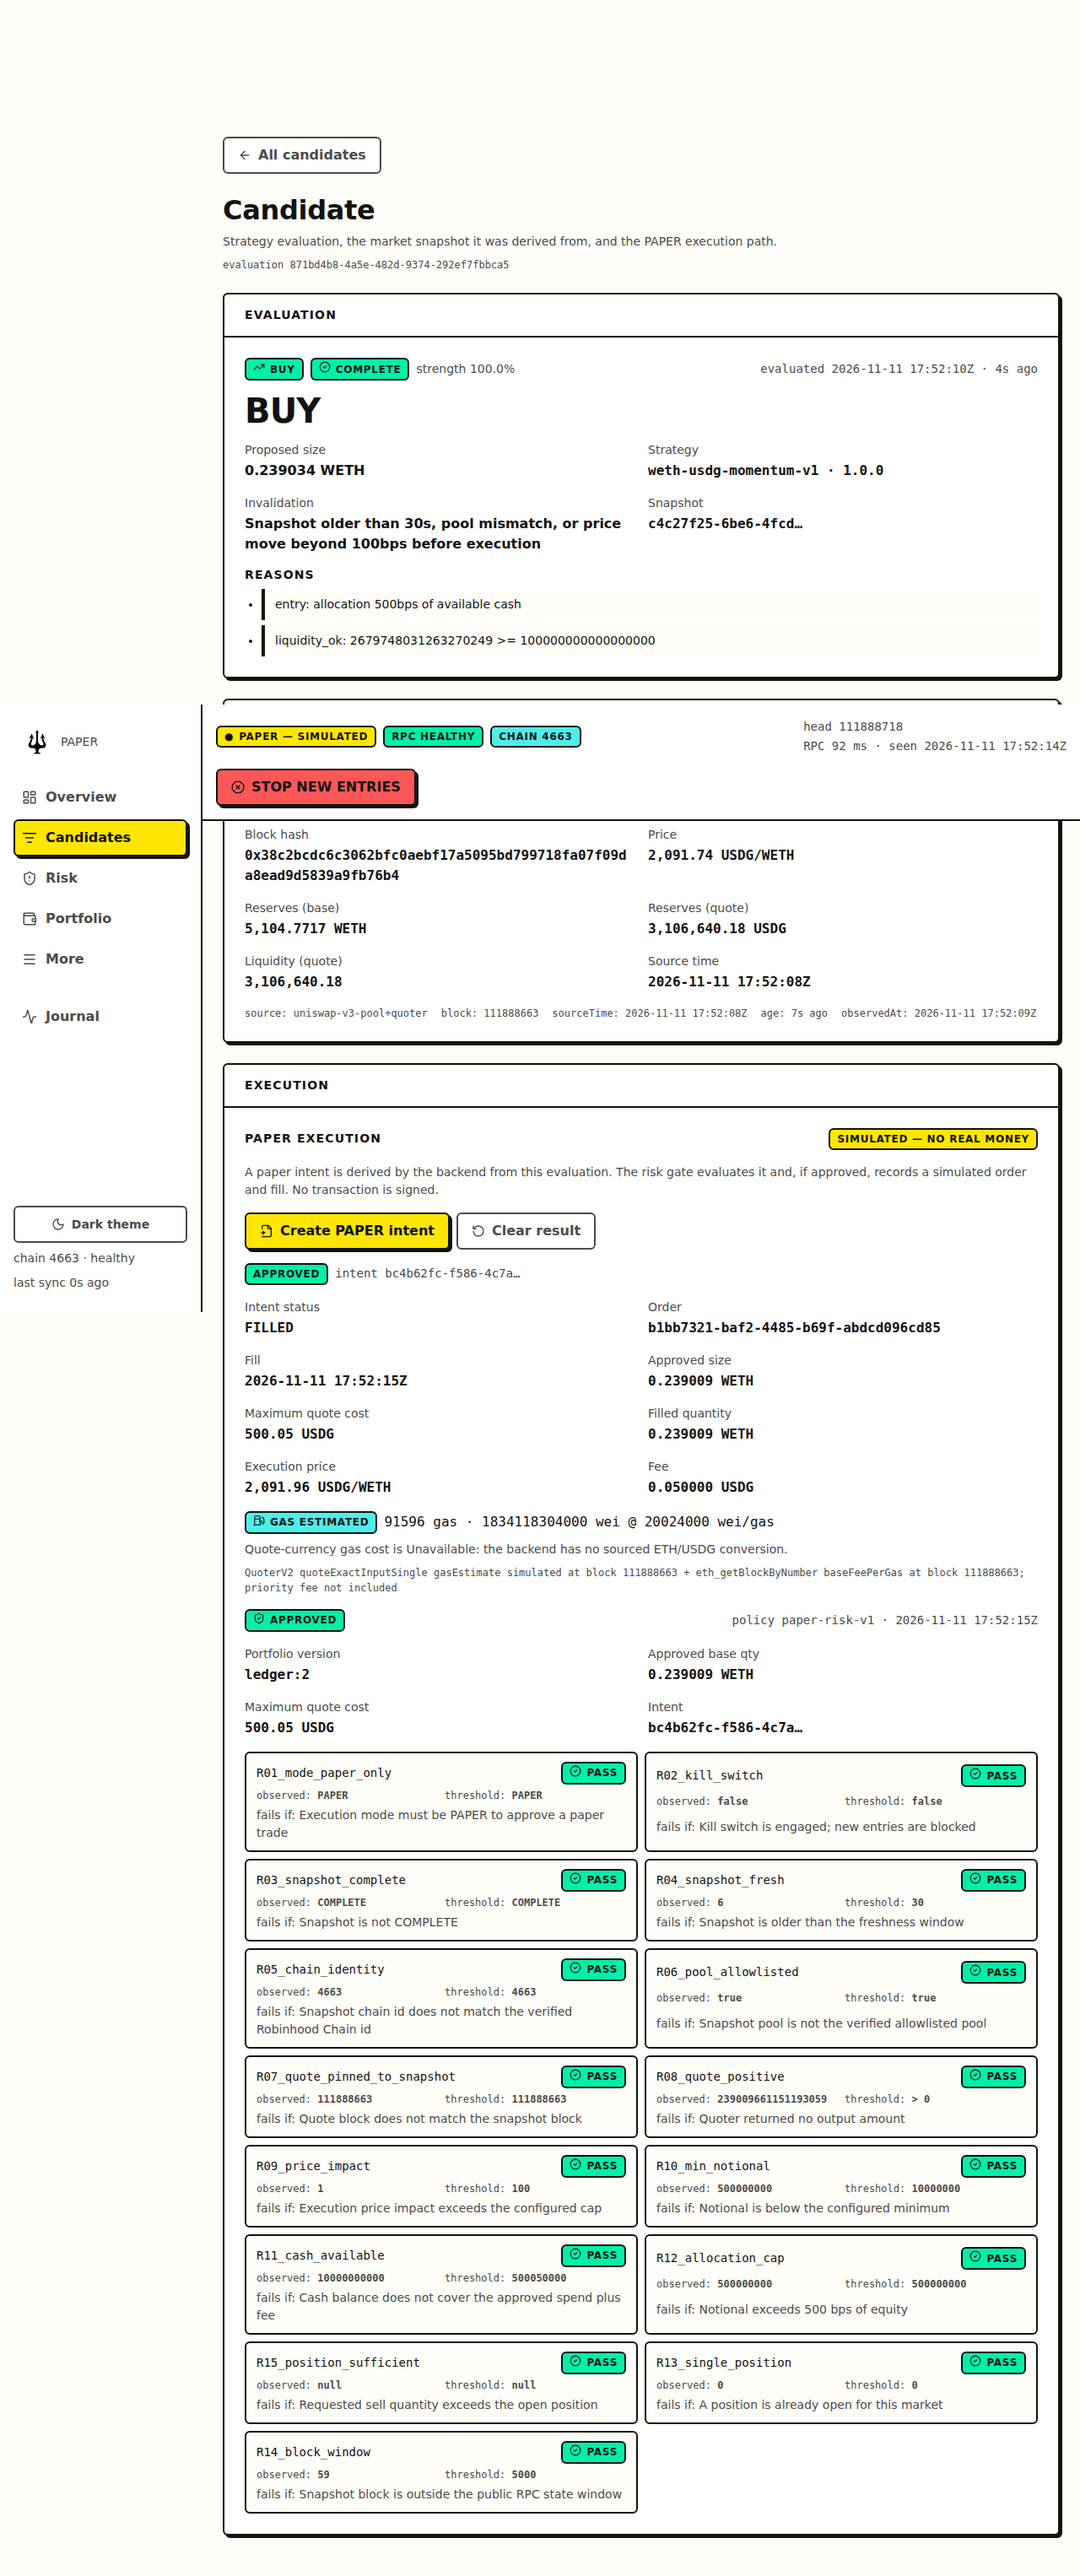
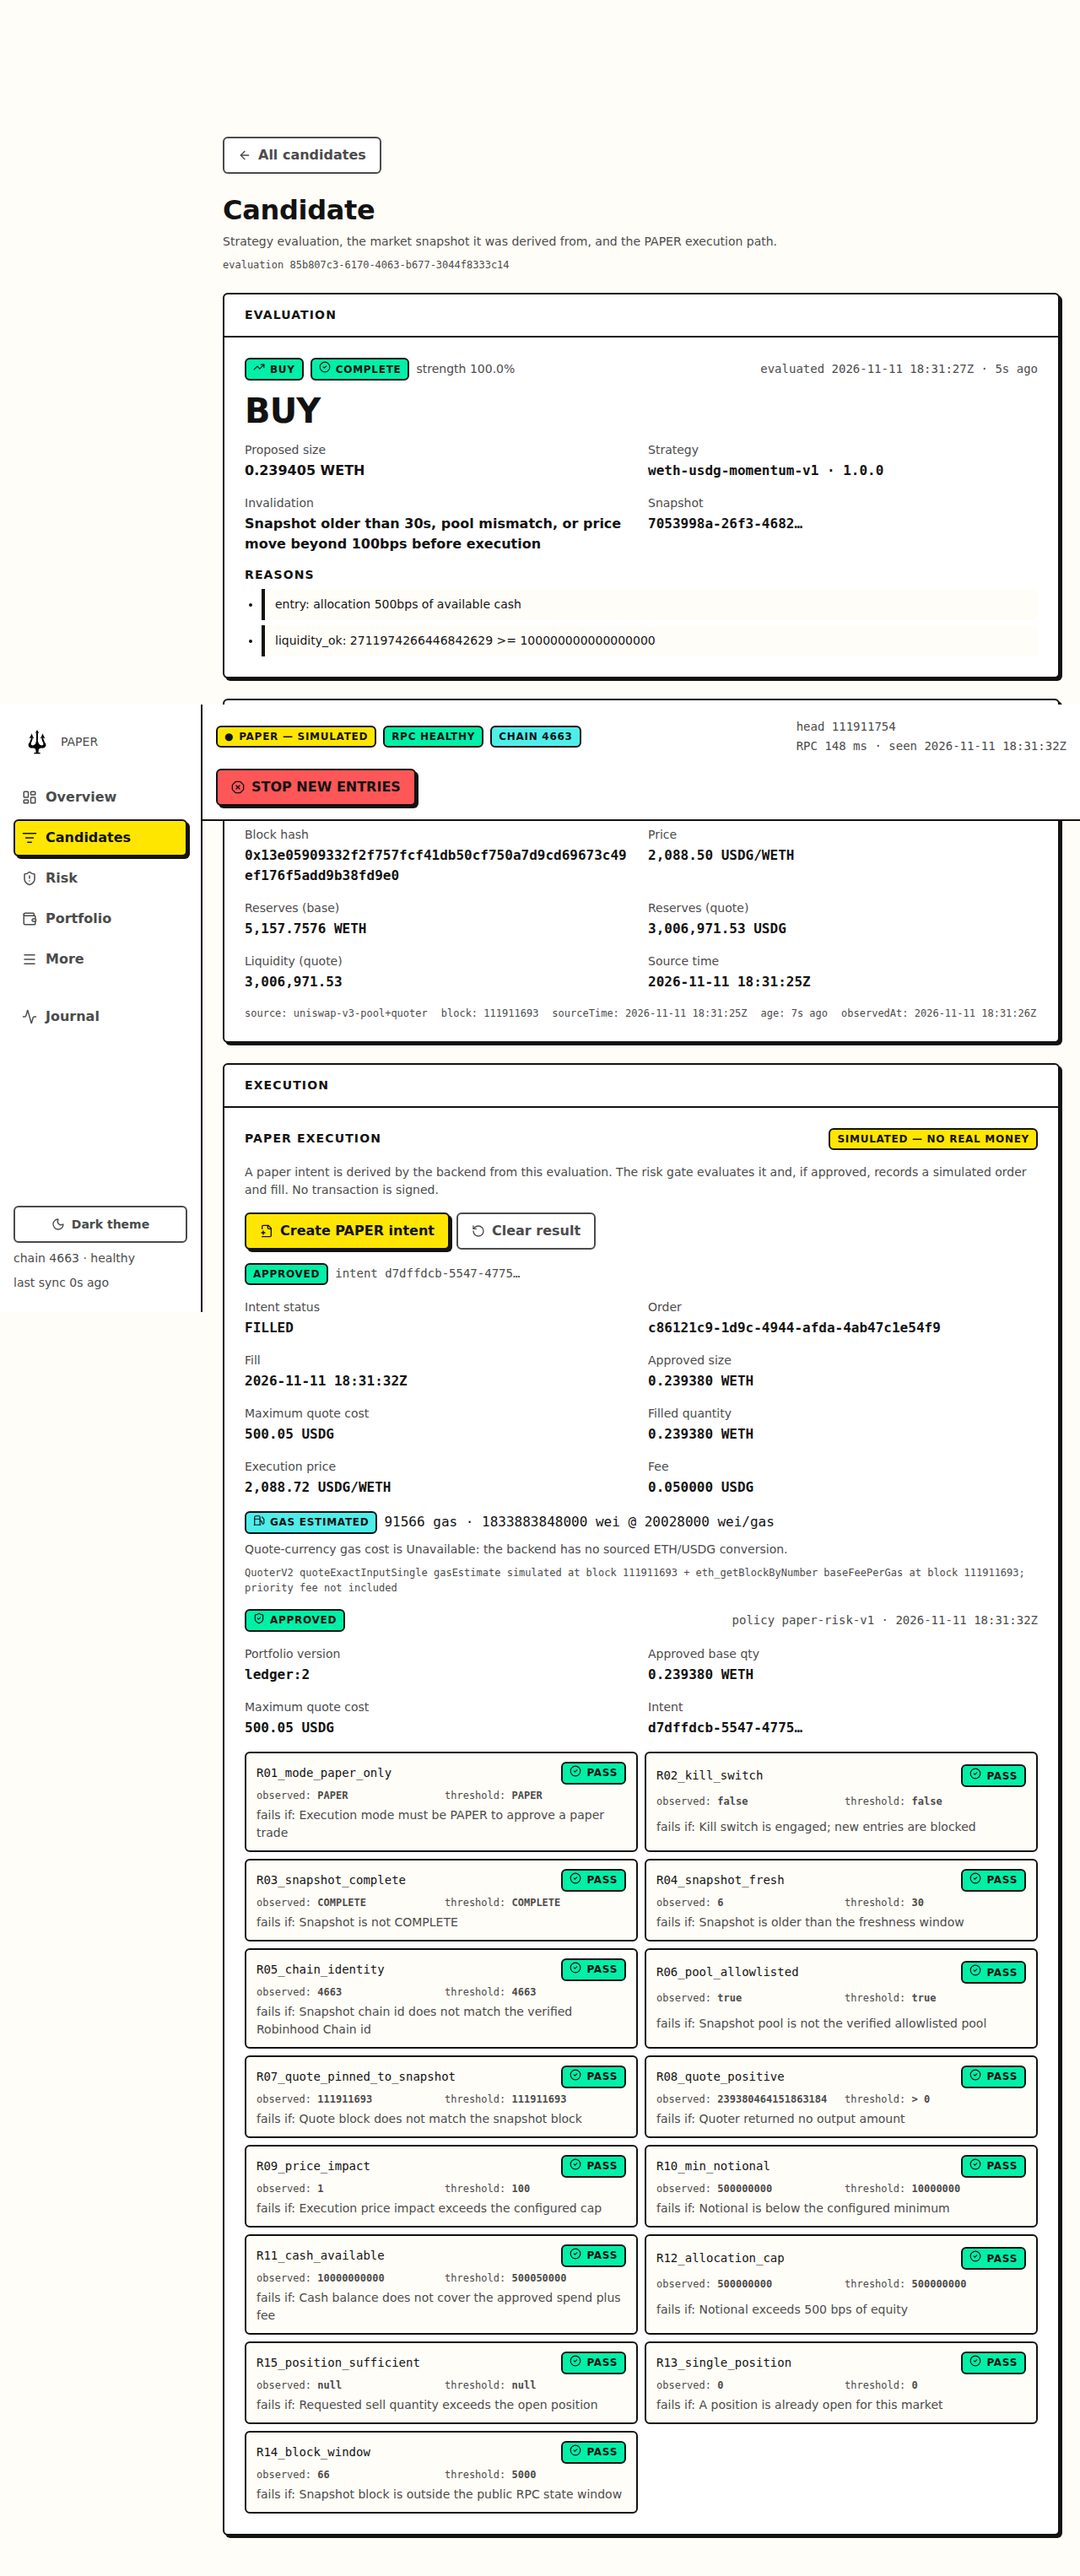
test(web): prove duplicate-evaluation replay in the browser
The intake UI mints a new idempotency key on every submit, so a second
click on the same evaluation used to hit the old 500 UNIQUE constraint
error. The live intent test now submits twice and requires the second
response to be 200 with meta.replayed true, the same order and fill, the
REPLAYED badge, and no 5xx or contract mismatch.

The replay banner now says the evaluation already produced the execution,
which stays true for a fresh key.

Changed region(s): [[0.25, 0.3112, 0.375, 0.3423], [0.75, 0.2801, 0.7812, 0.3112]]

diff --git a/apps/web/e2e/acceptance.spec.ts b/apps/web/e2e/acceptance.spec.ts
@@ -91,7 +91,7 @@ test.describe('real backend', () => {
     await expect(page.getByText(firstType).first()).toBeVisible();
   });
 
-  test('the intent action follows the live evaluation: honest when disabled, a real fill when tradable', async ({ page, request }) => {
+  test('the intent action follows the live evaluation, and a duplicate submit replays the stored execution', async ({ page, request }) => {
     const candidates = await (await request.get('/api/v1/candidates?limit=20')).json();
     type CandidatePayload = { evaluation: { id: string; action: string; snapshotStatus: string } };
     const entries = candidates.data as CandidatePayload[];
@@ -115,14 +115,26 @@ test.describe('real backend', () => {
     }
 
     await expect(action).toBeEnabled();
+
+    // Any 5xx during the journey would be the duplicate-evaluation defect resurfacing.
+    const serverErrors: string[] = [];
+    page.on('response', (response) => {
+      if (response.status() >= 500) serverErrors.push(`${response.status()} ${response.url()}`);
+    });
+
+    const firstPost = page.waitForResponse(
+      (response) => response.url().includes('/api/v1/intents') && response.request().method() === 'POST',
+    );
     await action.click();
-    await expect(page.getByRole('dialog')).toBeVisible();
     await page.getByTestId('confirm-dialog-confirm').click();
+    const firstResponse = await firstPost;
+    expect([200, 201]).toContain(firstResponse.status());
 
     await expect(page.getByTestId('intent-result')).toBeVisible({ timeout: 30_000 });
     // The amended contract must parse without a mismatch and with explicit order/fill.
     await expect(page.getByTestId('intent-error')).toHaveCount(0);
     await expect(page.getByTestId('intent-status')).toHaveText(/FILLED|REJECTED/);
+    await expect(page.getByTestId('intent-replayed')).toHaveCount(0);
     const status = (await page.getByTestId('intent-status').textContent())?.trim();
     if (status === 'FILLED') {
       await expect(page.getByTestId('intent-order')).not.toHaveText('None — rejected');
@@ -135,7 +147,31 @@ test.describe('real backend', () => {
       await expect(page.getByTestId('intent-order')).toHaveText('None — rejected');
       await expect(page.getByTestId('gas-estimate')).toHaveCount(0);
     }
+    const storedOrder = (await page.getByTestId('intent-order').textContent())?.trim();
+    const storedFill = (await page.getByTestId('intent-fill').textContent())?.trim();
     await shot(page, `intent-result-${String(status).toLowerCase()}`);
+
+    // Duplicate evaluation: the UI mints a fresh idempotency key per submit, so the
+    // backend must replay by evaluationId (200 + meta.replayed) instead of inserting
+    // a second intent or returning the old 500 UNIQUE constraint error.
+    const secondPost = page.waitForResponse(
+      (response) => response.url().includes('/api/v1/intents') && response.request().method() === 'POST',
+    );
+    await action.click();
+    await page.getByTestId('confirm-dialog-confirm').click();
+    const secondResponse = await secondPost;
+    expect(secondResponse.status()).toBe(200);
+    const secondBody = (await secondResponse.json()) as { meta?: { replayed?: unknown } };
+    expect(secondBody.meta?.replayed).toBe(true);
+
+    await expect(page.getByTestId('intent-replayed')).toBeVisible({ timeout: 30_000 });
+    await expect(page.getByTestId('intent-replayed')).toHaveText(/REPLAYED — no new fill/);
+    await expect(page.getByTestId('intent-error')).toHaveCount(0);
+    // Same stored execution: no new order id and no new fill timestamp.
+    await expect(page.getByTestId('intent-order')).toHaveText(storedOrder ?? '');
+    await expect(page.getByTestId('intent-fill')).toHaveText(storedFill ?? '');
+    expect(serverErrors, 'no request may return 5xx').toEqual([]);
+    await shot(page, `intent-replay-${String(status).toLowerCase()}`);
   });
 
   test('risk page never shows a decision it does not have', async ({ page }) => {

diff --git a/apps/web/src/features/intent/IntentAction.tsx b/apps/web/src/features/intent/IntentAction.tsx
@@ -96,7 +96,7 @@ export function IntentAction({
     } catch (cause) {
       if (cause instanceof ApiError && cause.code === 'CONTRACT_MISMATCH') {
         setError(
-          'The backend response does not match the amended intent-execution contract: it must return intent, riskDecision, order, and fill. The API branch has to adopt contract 0fb7be6 before this action can complete.',
+          'The backend response does not match the intent-execution contract: it must return intent, riskDecision, order, and fill.',
         );
       } else {
         setError(cause instanceof Error ? cause.message : 'The intent request failed');
@@ -179,8 +179,8 @@ export function IntentAction({
 
           {result.replayed ? (
             <p className="banner banner--info" role="status">
-              This idempotency key already produced an execution. The backend replayed the stored result; no new order, fill,
-              or ledger entry was written.
+              This evaluation already produced an execution. The backend replayed the stored result; no new order, fill, or
+              ledger entry was written.
             </p>
           ) : null}
 

diff --git a/docs/evidence/issue-5/README.md b/docs/evidence/issue-5/README.md
@@ -1,9 +1,9 @@
 # Issue #5 — PAPER operational UI: evidence
 
 Run date: 2026-11-11 (UTC). Branch `feat/issue-5-operational-ui`, rebased onto
-`feat/issue-2-paper-backend` at `53ed588`, which is itself stacked on the
+`feat/issue-2-paper-backend` at `24e39e8`, which is itself stacked on the
 contract amendment `0fb7be6` from PR #7. The contract package is a real
-dependency here, not a copy: `53ed588` contains `packages/api-contract` at
+dependency here, not a copy: `24e39e8` contains `packages/api-contract` at
 `0fb7be6`, so the UI and the API are validated against the same schemas.
 
 Everything below was produced on this machine against a real backend process
@@ -25,11 +25,11 @@ tests are labelled "intercepted transport, clearly test-only".
 | Command | Result |
 |---|---|
 | `pnpm -r typecheck` | PASS (3 packages) |
-| `pnpm -r test` | PASS — contract 17, API 44 passed / 4 skipped (real-RPC tests need `RUN_RPC_TESTS=1`), web 38 |
-| `pnpm -r build` | PASS — web 390.77 kB JS / 114.99 kB gzip, 13.24 kB CSS / 3.14 kB gzip |
+| `pnpm -r test` | PASS — contract 17, API 50 passed / 4 skipped (real-RPC tests need `RUN_RPC_TESTS=1`), web 38 |
+| `pnpm -r build` | PASS — web 390.68 kB JS / 114.93 kB gzip, 13.24 kB CSS / 3.14 kB gzip |
 | `npx playwright test` (apps/web) | 22 passed |
 
-## Live intent evidence — three honest phases
+## Live intent evidence — four honest phases
 
 The market decides which states are reachable, so each phase used its own
 paper database and the UI was driven by a real browser click. The raw SQLite
@@ -80,21 +80,49 @@ strategy reports `HOLD` on every evaluation in the window. All 20 entries from
 - The button is not hidden and no result is invented; there is no success state
   without a backend decision.
 
-### Replay
+### 4. Duplicate evaluation replay — `intent-replay-filled.png`
 
-A replayed execution is proven at unit level (`apps/web/test/views.test.tsx`):
-a `200` body with `meta.replayed: true` renders `REPLAYED — no new fill` plus
-the stored order and fill. It cannot be produced by a browser click because the
-UI mints a new idempotency key per submission — that is the intended behaviour,
-so the replay path is exercised where it belongs, in the client contract tests.
+This is the path that used to fail with a 500. At backend `24e39e8`, a POST that
+carries a **new idempotency key** but an `evaluationId` that already has an
+execution returns `200` with `meta.replayed: true` and the stored execution; no
+second intent, order, fill, ledger entry, or audit row is written. The UI mints
+a fresh key for every submit by design, so a second click is exactly this case.
+
+Fresh paper portfolio (`trident-replay3.sqlite`), one duplicated browser click:
+
+- First submit: `201`, `APPROVED`, intent `d7dffdcb…` `FILLED`, order
+  `c86121c9-1d9c-4944-afda-4ab47c1e54f9`, fill
+  `2026-11-11 18:31:32Z`, 0.239380 WETH / 500.05 USDG, fee 0.050000 USDG,
+  15/15 rules `PASS`.
+- Second submit on the same evaluation with a new key: `200`,
+  `meta.replayed: true`, same intent/order/fill. The page renders the
+  `REPLAYED — NO NEW FILL` badge and the banner "This evaluation already
+  produced an execution. The backend replayed the stored result; no new order,
+  fill, or ledger entry was written." The order id and fill time are unchanged,
+  no error banner appears, and no request returns 5xx.
+- Gas for the stored fill: `AVAILABLE`, 91566 units at 20028000 wei/gas =
+  1833883848000 wei, provenance block 111911693, priority fee excluded.
+- An additional raw duplicate POST (`replay-duplicate-response.json`) returned
+  `200 replayed: true` while row counts stayed `intents 1, orders 1, fills 1,
+  ledger 8, audit 15`.
+- The dedicated browser run is recorded in `replay-test.json`
+  (`--grep "duplicate submit"`, 1 passed, 0 unexpected).
+
+The replay assertion lives in the same live browser test as phase 1: it submits
+twice, requires the second response to be `200` with `meta.replayed === true`,
+and requires the same order/fill plus the `intent-replayed` badge. The
+`REPLAYED` copy also appears in `apps/web/test/views.test.tsx`, but the browser
+run above is the live proof.
 
 ## Live API data observed during this run
 
 - `/health`: `mode PAPER`, `chainId 4663`, `rpcStatus HEALTHY`, head blocks
-  between `111888302` and `111893128`, latency 92–562 ms.
+  between `111888302` and `111893128` for phases 1–3; the replay phase ran at
+  head `111910423`–`111911754`.
 - `/api/v1/markets/weth-usdg/snapshot`: status `COMPLETE`, price around
-  `2090–2092 USDG/WETH`, `sourceTime` from the pinned block, block hash and
-  `block:` shown on the candidate page from the same payload.
+  `2090–2092 USDG/WETH` in phases 1–3 and `2088.50 USDG/WETH` in the replay
+  phase, `sourceTime` from the pinned block, block hash and `block:` shown on
+  the candidate page from the same payload.
 - `/api/v1/portfolio`: mode `PAPER`, real equity, one open WETH position in the
   long-running database, none in the fresh ones.
 - `/api/v1/journal`: real `strategy.evaluation.recorded`,
@@ -109,10 +137,13 @@ so the replay path is exercised where it belongs, in the client contract tests.
 3. Portfolio is labelled `SIMULATED`, shows a real equity value, and states
    `PAPER — no real money`.
 4. Journal lists a real audit event type returned by the API.
-5. **Intent action follows the live evaluation** — disabled with the exact
-   reason when the evaluation is not tradable, otherwise a real click that ends
-   `FILLED` or `REJECTED` with explicit order/fill and no contract mismatch.
-   This is the test that produced the three screenshots above.
+5. **Intent action follows the live evaluation, and a duplicate submit
+   replays** — disabled with the exact reason when the evaluation is not
+   tradable; otherwise a real click that ends `FILLED` or `REJECTED` with
+   explicit order/fill, no contract mismatch, then a second click on the same
+   evaluation that must receive `200 replayed: true` and render
+   `REPLAYED — no new fill` with the stored order/fill unchanged. This is the
+   test that produced the screenshots above and `replay-test.json`.
 6. Risk page shows either real per-rule evidence or an explicit empty state.
 7. Offline/error state keeps prior values labelled and offers retry.
 8. An empty evaluation list renders as Empty, not Error.
@@ -220,12 +251,9 @@ with provenance — never as zero.
 6. The long-running paper database holds a position, so `BUY` is only reachable
    on a fresh paper portfolio; the executed-intent evidence above states which
    database produced it.
-7. **Backend returns 500 when an evaluation already has an intent.** During this
-   run the candidate list still offered an older `BUY` evaluation whose intent
-   existed, so a second click reached `POST /api/v1/intents` and Fastify logged
-   `UNIQUE constraint failed: order_intents.evaluation_id` as an unhandled
-   request error. The UI then shows the backend's message ("Internal error") and
-   claims no success, but a typed `409` (or the stored execution, which the
-   idempotency contract already allows) would be correct. The browser test now
-   clicks the newest evaluation only, which is the one a user can still act on;
-   the gap belongs to `apps/api`.
+7. **Duplicate evaluation is now a replay, verified in the browser.** Earlier at
+   `53ed588` a second click on a consumed evaluation produced
+   `500 UNIQUE constraint failed: order_intents.evaluation_id`. At `24e39e8` the
+   same request returns `200 replayed: true` with the stored execution; the
+   duplicate scenario above proves the UI shows that without a 500 or a
+   `CONTRACT_MISMATCH`. A typed `409` is no longer needed for this case.
